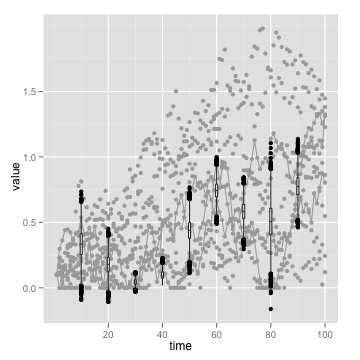
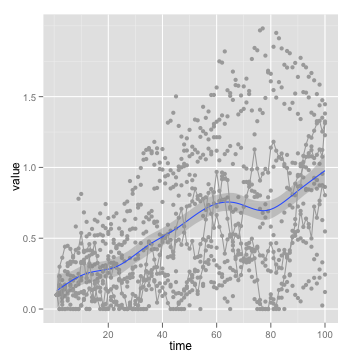
lognormal errors

diff --git a/monitoring_knit_.md b/monitoring_knit_.md
@@ -145,7 +145,7 @@ g <- ggplot()+geom_point(aes(time, value), color='darkgrey', data=r.m)
 g <- g+geom_line(aes(time,mean(value)), data=r.m)
 for(time in SAMPLE*10){
   sub.d <- list(tot=t(sample(r.d[time,1:10], size=9)))
-  ml.t <- mle2(tot~dnorm(mean=mu, sd=sigma), data=sub.d, start=list(mu=mean(sub.d$tot), sigma=sd(sub.d$tot)))
+  ml.t <- mle2(tot~dlnorm(mean=mu, sd=sigma), data=sub.d, start=list(mu=mean(sub.d$tot), sigma=sd(sub.d$tot)))
   post.t <- sample.naive.posterior(ml.t)
   post.t$time = time
   g <- g + geom_boxplot(aes(time, mu), data=post.t)
@@ -164,13 +164,13 @@ g <- g+geom_line(aes(time,mean(value)), data=r.m)
 prior <- NULL
 for(time in SAMPLE*10){
   sub.d <- list(tot=t(sample(r.d[time,1:10], size=9)))
-  ml.t <- mle2(tot~dnorm(mean=mu, sd=sigma), data=sub.d, start=list(mu=mean(sub.d$tot), sigma=sd(sub.d$tot)))
+  ml.t <- mle2(tot~dlnorm(mean=mu, sd=sigma), data=sub.d, start=list(mu=mean(sub.d$tot), sigma=sd(sub.d$tot)))
   post.t <- sample.naive.posterior(ml.t)
   if(is.null(prior)){
     prior <- c(coef(ml.t)['mu'], coef(ml.t)['sigma'])
   }
   if(!is.null(prior)){
-    post.t$mu <- sample(post.t$mu, replace=TRUE, prob=dnorm(post.t$mu, mean=prior[1], sd=prior[2]))
+    post.t$mu <- sample(post.t$mu, replace=TRUE, prob=dlnorm(post.t$mu, mean=prior[1], sd=prior[2]))
     prior <- c(coef(ml.t)['mu'], coef(ml.t)['sigma'])
   }
   post.t$time = time
@@ -196,7 +196,7 @@ g <- g + geom_line(aes(time, pop2), data=r.d, color='darkgrey')
 g <- g + geom_line(aes(time, pop3), data=r.d, color='darkgrey')
 for(time in 1:9*10){
   sub.d <- list(tot=t(r.d[time,1:3]))
-  ml.t <- mle2(tot~dnorm(mean=mu, sd=sigma), data=sub.d, start=list(mu=mean(sub.d$tot), sigma=sd(sub.d$tot)))
+  ml.t <- mle2(tot~dlnorm(mean=mu, sd=sigma), data=sub.d, start=list(mu=mean(sub.d$tot), sigma=sd(sub.d$tot)))
   post.t <- sample.naive.posterior(ml.t)
   post.t$time = time
   g <- g + geom_boxplot(aes(time, mu), data=post.t)
@@ -210,18 +210,19 @@ end.rcode-->
 
 <!--begin.rcode est-recov-bayes-trend,echo=FALSE,cache=TRUE,warning=FALSE  
 g <- ggplot()+geom_point(aes(time, value), color='darkgrey', data=r.m)
+g <- g+geom_smooth(aes(time,value), data=r.m)
 g <- g + geom_line(aes(time, pop1), data=r.d, color='darkgrey')
 g <- g + geom_line(aes(time, pop2), data=r.d, color='darkgrey')
 g <- g + geom_line(aes(time, pop3), data=r.d, color='darkgrey')
 for(time in 1:9*10){
   sub.d <- list(tot=t(r.d[time,1:3]))
-  ml.t <- mle2(tot~dnorm(mean=mu, sd=sigma), data=sub.d, start=list(mu=mean(sub.d$tot), sigma=sd(sub.d$tot)))
+  ml.t <- mle2(tot~dlnorm(mean=mu, sd=sigma), data=sub.d, start=list(mu=mean(sub.d$tot), sigma=sd(sub.d$tot)))
   post.t <- sample.naive.posterior(ml.t)
   if(is.null(prior)){
     prior <- c(coef(ml.t)['mu'], coef(ml.t)['sigma'])
   }
   if(!is.null(prior)){
-    post.t$mu <- sample(post.t$mu, replace=TRUE, prob=dnorm(post.t$mu, mean=prior[1], sd=prior[2]))
+    post.t$mu <- sample(post.t$mu, replace=TRUE, prob=dlnorm(post.t$mu, mean=prior[1], sd=prior[2]))
     prior <- c(coef(ml.t)['mu'], coef(ml.t)['sigma'])
   }
   post.t$time = time

diff --git a/monitoring.md b/monitoring.md
@@ -91,12 +91,18 @@ Three "populations" sampled every 30 units
 ```
 ## Error: replacement has 1000 rows, data has 100
 ```
+```
+## Error: initial value in 'vmmin' is not finite
+```
 ![plot of chunk est-recov-lik](https://github.com/ashander/sandbox/raw/master/est-recov-lik.png)
 
   
 **Likelihood**, treated like independent samples (no population model)
 
   
+```
+## Error: initial value in 'vmmin' is not finite
+```
 ![plot of chunk est-recov-bayes](https://github.com/ashander/sandbox/raw/master/est-recov-bayes.png)
 
   
@@ -107,11 +113,17 @@ Three "populations" sampled every 30 units
 
 One "population" sampled every 10 units ...
 
+```
+## Error: 'Sigma' is not positive definite
+```
 ![plot of chunk est-recov-lik-trend](https://github.com/ashander/sandbox/raw/master/est-recov-lik-trend.png)
 
 **Likelihood**
 
 
+```
+## Error: 'Sigma' is not positive definite
+```
 ![plot of chunk est-recov-bayes-trend](https://github.com/ashander/sandbox/raw/master/est-recov-bayes-trend.png)
 
 **Bayes**
